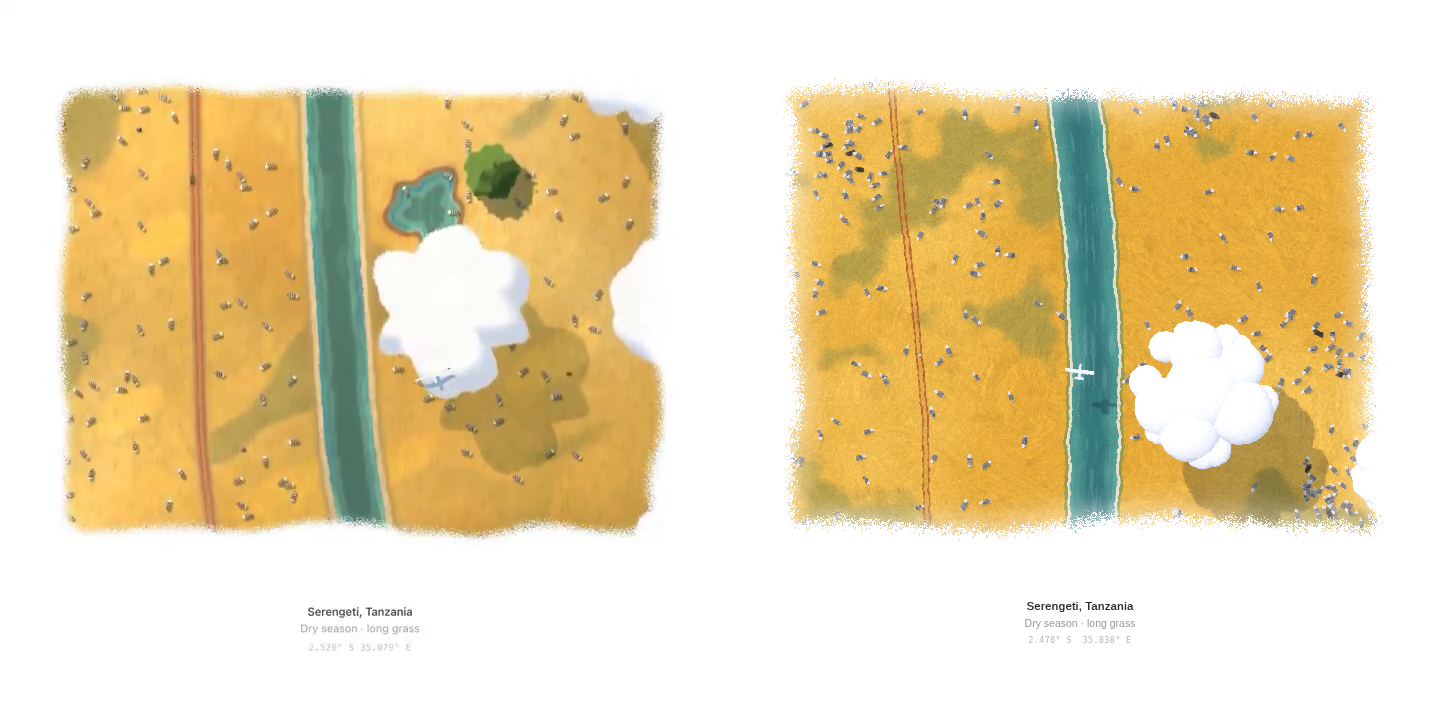
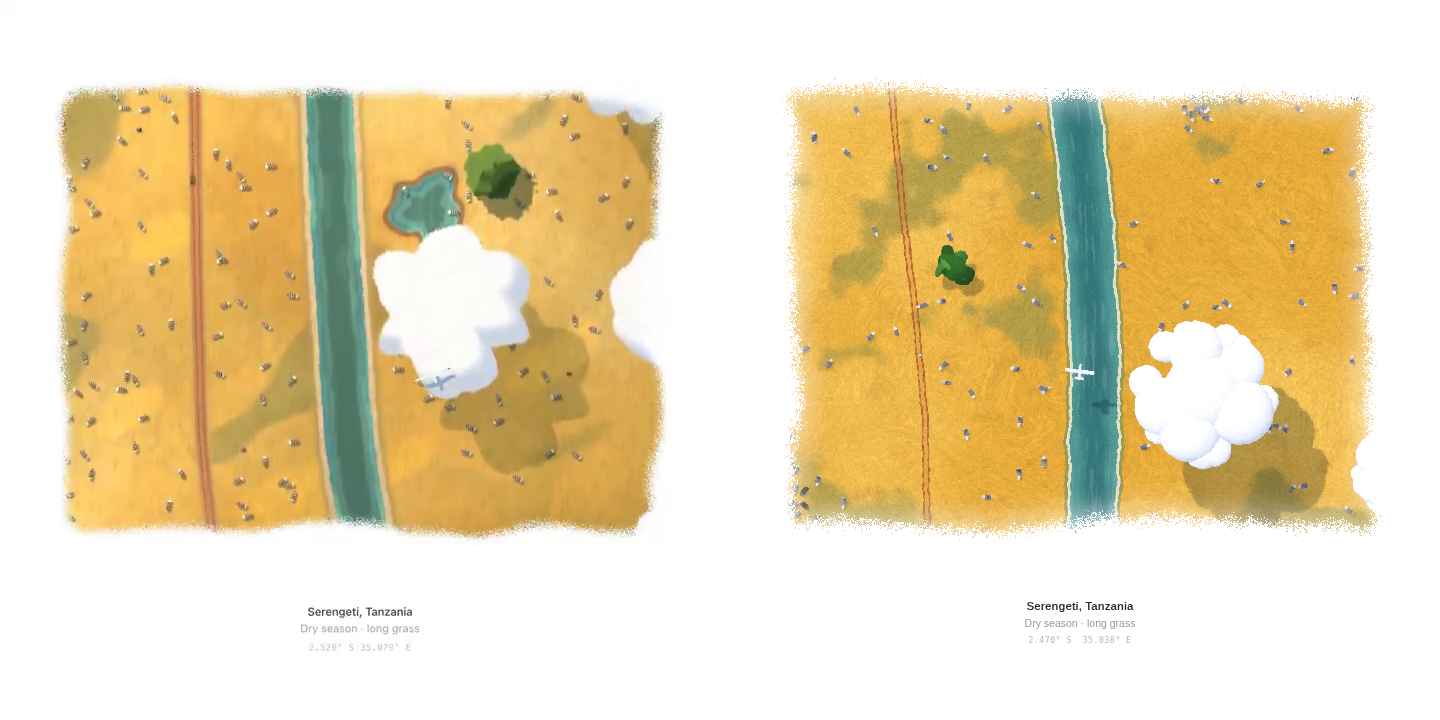
Thin out cattle/zebras ~55% (sparser loose herds + stragglers); re-shoot scenes

diff --git a/src/main.js b/src/main.js
@@ -227,27 +227,27 @@ class Chunk {
       for (let hI = 0; hI < nh; hI++) {
         const cz = rz(); let cx = THREE.MathUtils.clamp(free(cz, 30, 420) * 0.6, -240, 240); if (blocked(cx, cz)) cx = -250;
         const herd = new Herd(cx, cz, R() * 6.28); this.herds.push(herd);
-        const m = 12 + Math.floor(R() * 16);
+        const m = 6 + Math.floor(R() * 8);
         for (let k = 0; k < m; k++) {
           const x = cx + gauss(R) * 62, z = cz + gauss(R) * 58; if (blocked(x, z)) continue;
           const c = R() < 0.7 ? sc(0.24, 0.16, 0.10) : R() < 0.5 ? sc(0.40, 0.27, 0.16) : sc(0.86, 0.82, 0.74);
           addAnimal('cattle', x, z, herd.h + gauss(R) * 1.5, this.herds.length - 1, 0.95 + R() * 0.15, c);
         }
       }
-      for (let k = 0; k < 2; k++) { const z = rz(), x = free(z); if (R() < 0.6) addAnimal('cattle', x, z, R() * 6, -1, 1, sc(0.24, 0.16, 0.1)); }
+      for (let k = 0; k < 3; k++) { const z = rz(), x = free(z, 0, 380); if (R() < 0.6) addAnimal('cattle', x, z, R() * 6, -1, 1, sc(0.24, 0.16, 0.1)); }
       if (R() < 0.5) { const z = rz(), x = free(z, 8); tree(x, z, 7 + R() * 3, [sc(0.20, 0.42, 0.22), sc(0.26, 0.5, 0.25), sc(0.17, 0.36, 0.2), sc(0.34, 0.58, 0.3)]); }
     } else if (biome === 2) {
-      const cl = 2 + Math.floor(R() * 2);
+      const cl = 1 + Math.floor(R() * 2);
       for (let c = 0; c < cl; c++) {
         const cz = rz(), cx = free(cz, 20, 360); const herd = new Herd(cx, cz, R() * 6.28); herd.r = 75; this.herds.push(herd);
-        const m = 10 + Math.floor(R() * 18);
+        const m = 6 + Math.floor(R() * 9);
         for (let k = 0; k < m; k++) {
           const x = cx + gauss(R) * 70, z = cz + gauss(R) * 60; if (blocked(x, z)) continue;
           const wild = R() < 0.1;
           addAnimal('zebra', x, z, herd.h + gauss(R) * 1.6, this.herds.length - 1, 0.95 + R() * 0.15, wild ? sc(0.42, 0.36, 0.32) : sc(1, 1, 1));
         }
       }
-      for (let k = 0; k < 75; k++) { const z = rz(), x = free(z, 0, 400); addAnimal('zebra', x, z, R() * 6.28, -1, 0.95 + R() * 0.15, sc(1, 1, 1)); }
+      for (let k = 0; k < 36; k++) { const z = rz(), x = free(z, 0, 400); addAnimal('zebra', x, z, R() * 6.28, -1, 0.95 + R() * 0.15, sc(1, 1, 1)); }
       if (R() < 0.75) {
         const z = rz(), x = free(z, 18, 360);
         tree(x, z, 14 + R() * 5, [sc(0.22, 0.46, 0.17), sc(0.30, 0.55, 0.21), sc(0.17, 0.38, 0.14), sc(0.40, 0.62, 0.26)], { flat: 0.45, subs: 5, h: 1.25, spread: 0.75 });
@@ -278,7 +278,7 @@ class Chunk {
         put(this.fence, 'fence', fxx - W / 2, 0.7, fz, 0.5, 1.2, H, fc); put(this.fence, 'fence', fxx + W / 2, 0.7, fz, 0.5, 1.2, H, fc);
         if (R() < 0.7) tree(fxx - W / 2 - 7, fz + 4, 7, [greens[1], ...greens]);
       }
-      for (let k = 0; k < 8; k++) { const z = rz(), x = free(z); addAnimal('cattle', x, z, R() * 6, -1, 0.9, R() < 0.5 ? sc(0.25, 0.2, 0.18) : sc(0.38, 0.27, 0.2)); }
+      for (let k = 0; k < 3; k++) { const z = rz(), x = free(z); addAnimal('cattle', x, z, R() * 6, -1, 0.9, R() < 0.5 ? sc(0.25, 0.2, 0.18) : sc(0.38, 0.27, 0.2)); }
     }
     for (const k of Object.keys(n)) {
       const m = this[k]; m.count = n[k]; m.instanceMatrix.needsUpdate = true; if (m.instanceColor) m.instanceColor.needsUpdate = true;
@@ -629,6 +629,10 @@ if (CAPTURE) {
   window.__pointer = setPointer;
   window.__state = () => state;
   window.__tick = (dt = 1 / 30, n = 1) => { for (let i = 0; i < n; i++) update(dt); };
+  window.__count = () => { let tot = 0, vis = 0;
+    for (const [, c] of activeChunks) for (const kind of ['cattle', 'zebra']) { const a = c.anim[kind];
+      for (let i = 0; i < c[kind].count; i++) { tot++; if (Math.abs(a[i * AF] - state.camX) < 296 && Math.abs(a[i * AF + 1] - state.camZ) < 222) vis++; } }
+    return { tot, vis }; };
   window.__dbg = () => [...activeChunks.values()].map((c) => [c.index, c.zebra.count, c.cattle.count, c.blobs.count, c.petals.count]);
   window.__scene = (i) => { applyScene(i); state.reveal = 1; state.phase = 'idle'; update(0.001); render(); };
   update(0.001); render(); window.__ready = true;
